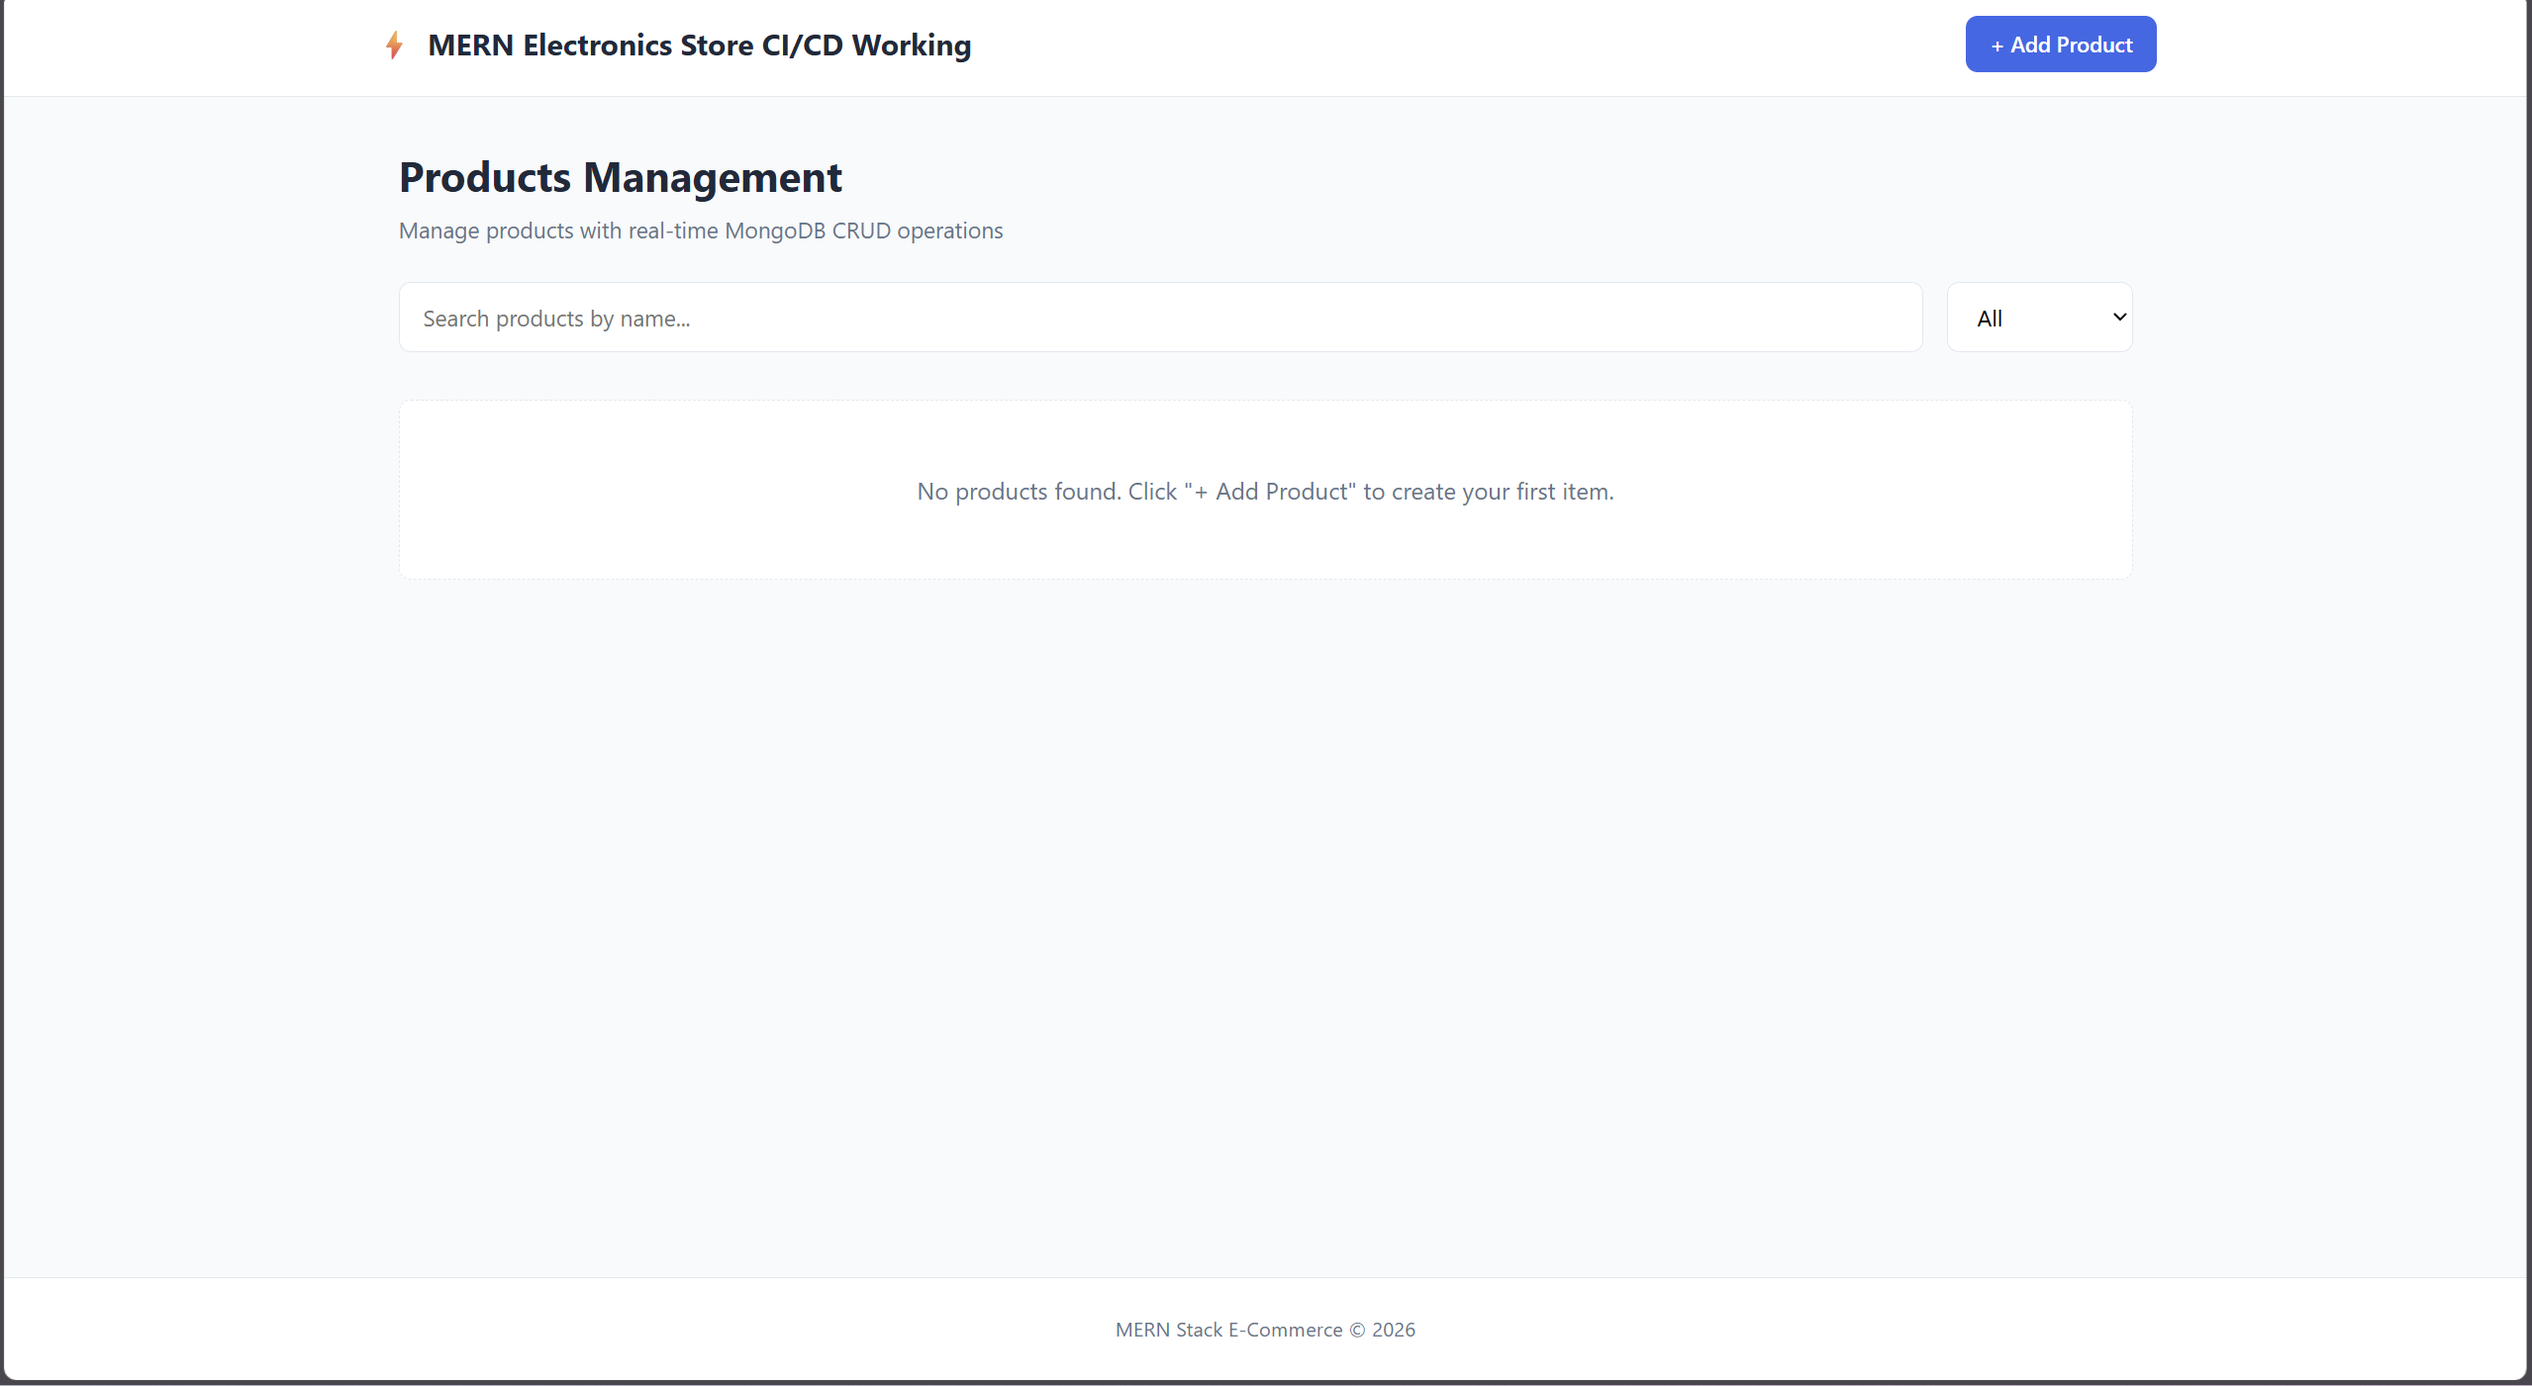
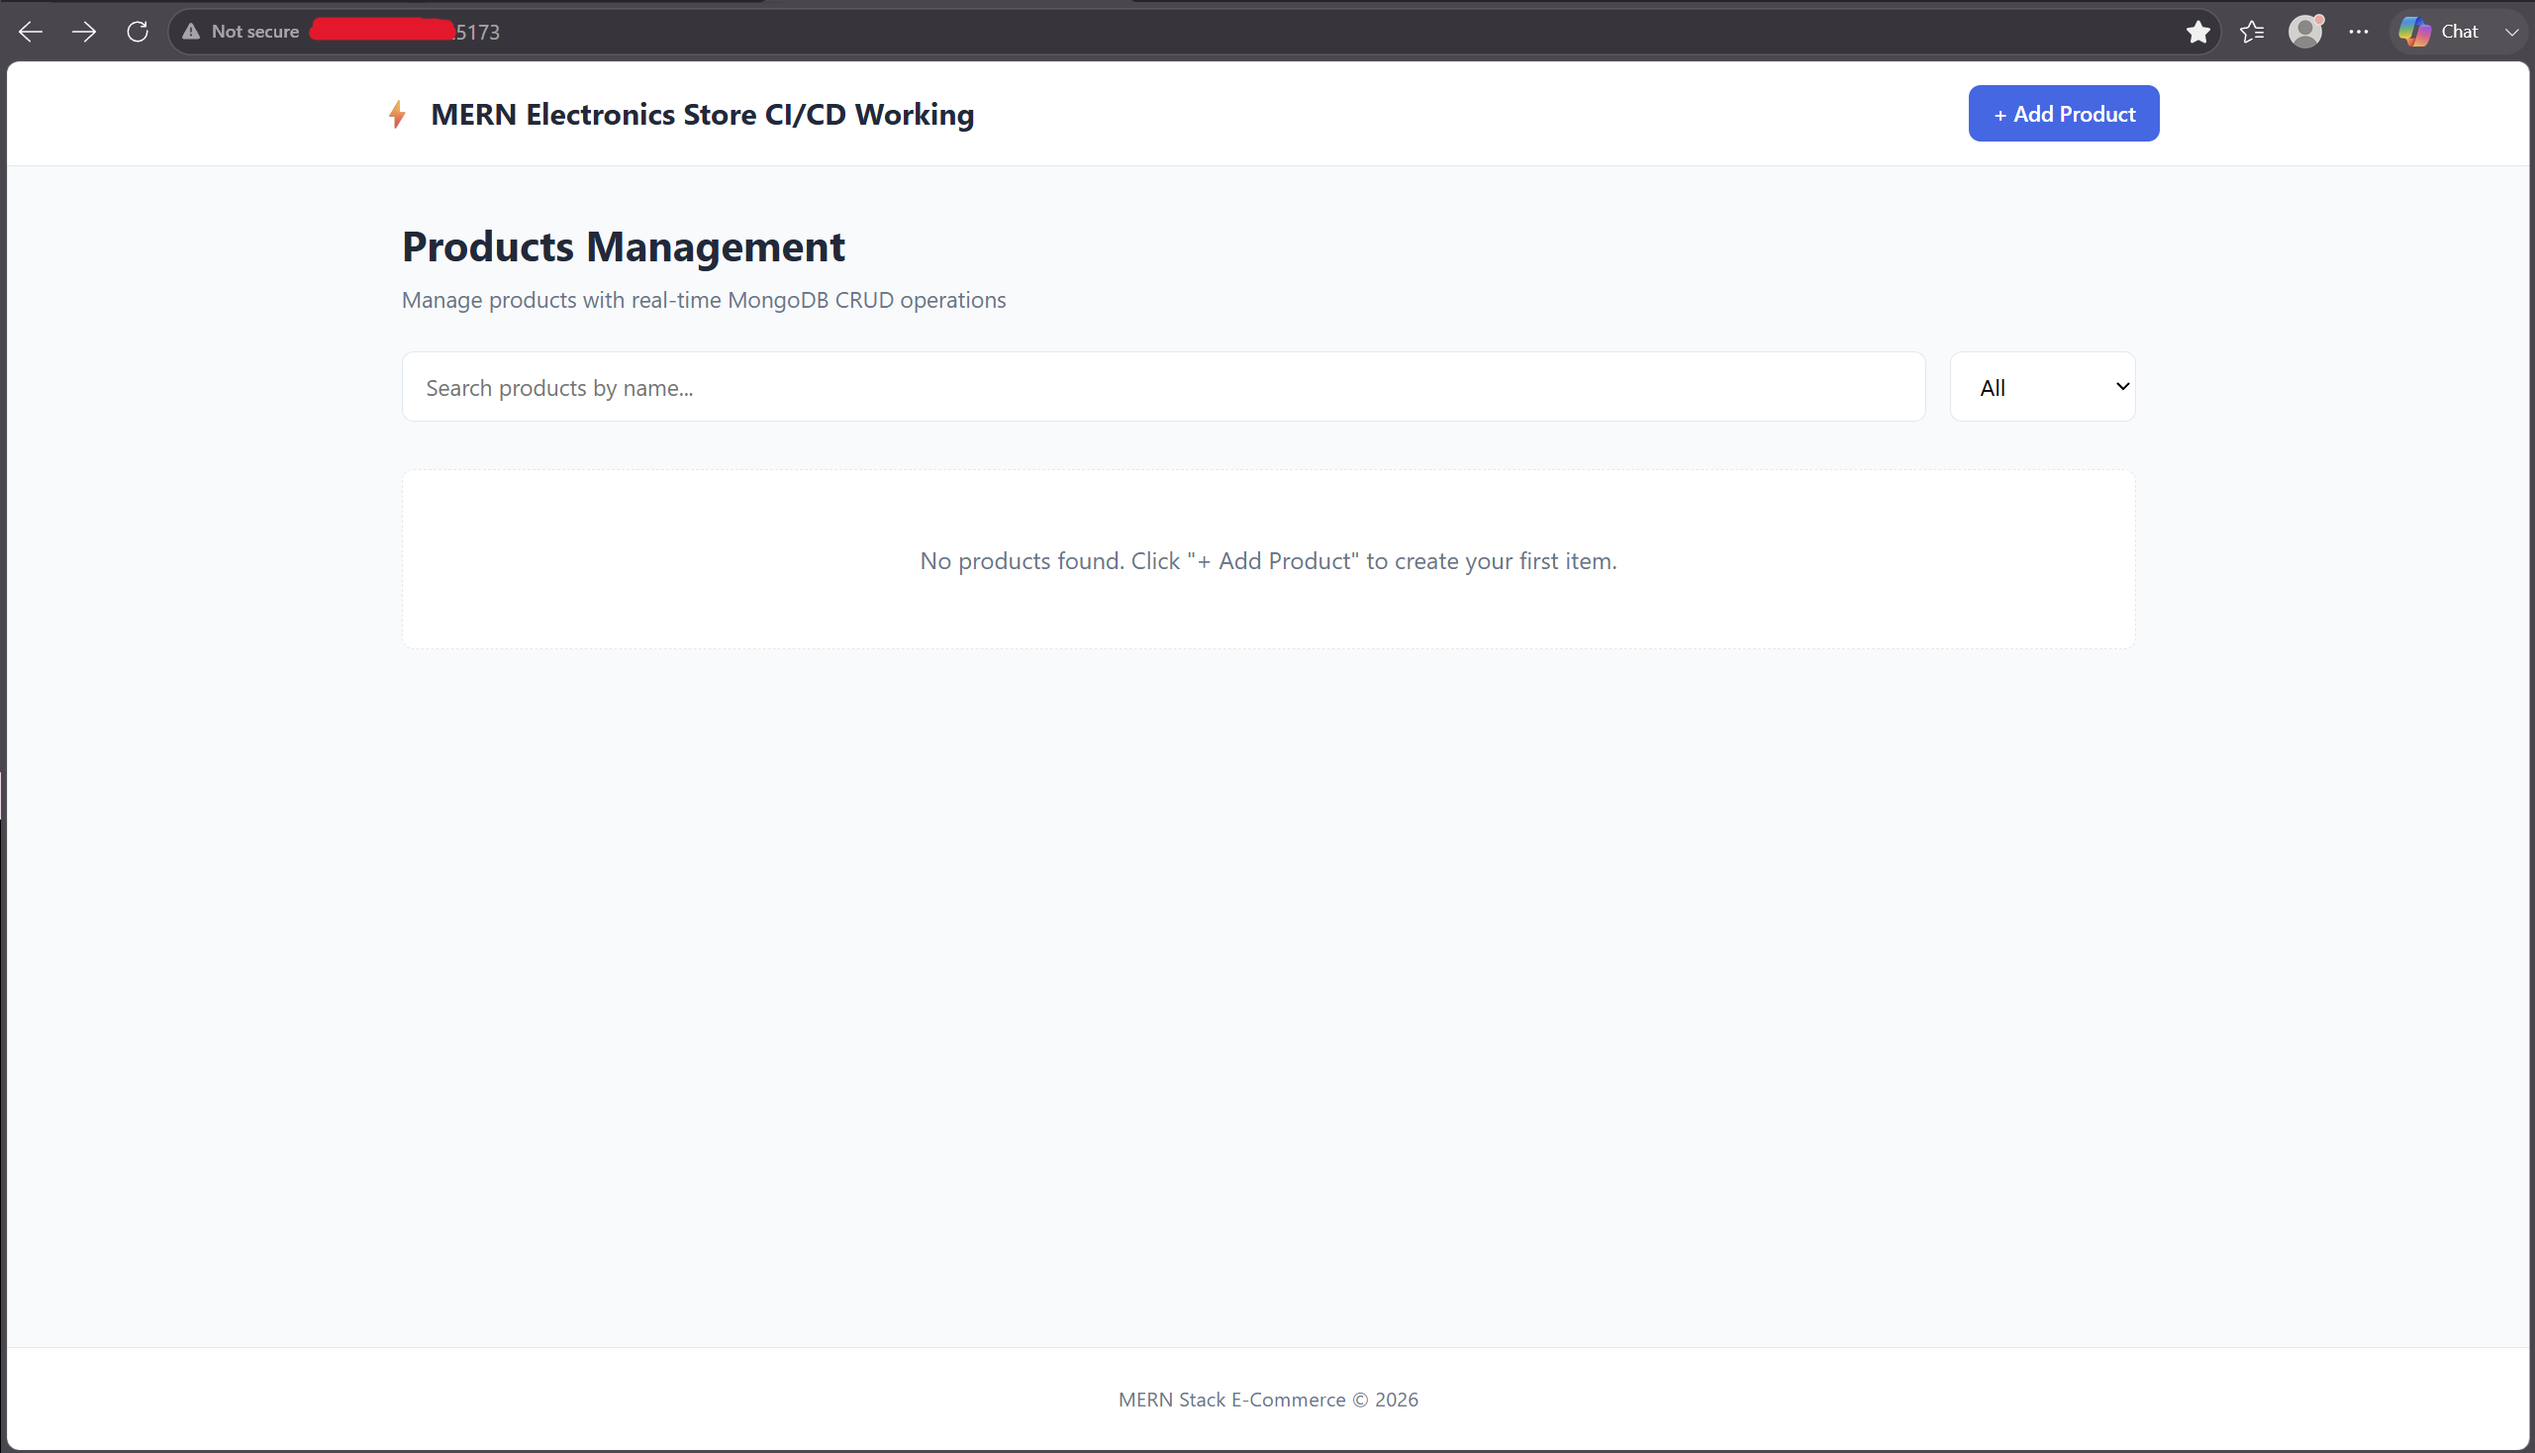
Update README.md

diff --git a/README.md b/README.md
@@ -1,58 +1,117 @@
-# MERN E-Commerce Platform
+# CI/CD Pipeline Practice Project
 
-A full-stack e-commerce application and DevOps portfolio project. It pairs a React and Vite storefront with an Express and MongoDB API, and demonstrates containerized delivery through GitHub Actions, Docker, and GitHub Container Registry (GHCR).
+A hands-on project built to learn and demonstrate an end-to-end CI/CD workflow from an Associate DevOps Engineer perspective. A small React and Express product-management application provides the workload; the main focus is automating validation, container builds, image publishing, and deployment across QA, staging, and main environments.
 
-> **Project focus:** Associate DevOps Engineer — CI/CD automation, container builds, environment-aware image publishing, and deployment workflow design.
+The `main` deployment shown below completed successfully, and the application was opened from the deployed server.
 
-## Application Preview
+## Deployment Evidence
 
-| Product catalog | Product management |
-|:---:|:---:|
-| ![E-commerce application screenshot 1](Screenshot%20(2).png) | ![E-commerce application screenshot 2](Screenshot%20(3).png) |
+### Successful GitHub Actions deployment to `main`
 
-## What’s Implemented
+The workflow completed its environment selection, container image build and publish, and deployment job successfully. The run summary records the commit and the backend and frontend image tags published to GHCR.
 
-### Application
-- React 18 and Vite frontend with product catalog, search, category filtering, and product details.
-- Express API backed by MongoDB and Mongoose, with product create, read, update, and delete endpoints.
-- Health endpoint at `GET /api/health`.
-- Modular backend organization using routes, controllers, services, and models.
+![Successful GitHub Actions CD workflow run for main](Screenshot%20(2).png)
 
-### DevOps and delivery
-- Separate Docker images for the frontend and backend, built from Node.js 20 Alpine base images.
-- Docker Compose setup for running the app and MongoDB locally.
-- GitHub Actions CI on pull requests to `qa`, `staging`, and `main`, and pushes to `feature/**`, `fix/**`, and `hotfix/**` branches.
-- CI installs locked dependencies, checks backend JavaScript syntax, builds the frontend, and verifies both Docker images build.
-- GitHub Actions CD on pushes to `qa`, `staging`, or `main`, with an option to start a workflow manually.
-- Environment-tagged frontend and backend images published to GHCR, using both commit-specific and `*-latest` tags.
-- Optional remote deployment over SSH when the deployment secrets are configured.
+### Application running on the deployed host
 
-## Architecture
+The product-management application was opened using the server address after deployment.
+
+![Product management application running on the deployed host](Screenshot%20(3).png)
+
+## What This Project Demonstrates
+
+- **Continuous integration:** GitHub Actions runs on pull requests targeting `qa`, `staging`, and `main`, and on pushes to `feature/**`, `fix/**`, and `hotfix/**` branches.
+- **Application checks:** CI installs dependencies with `npm ci`, runs the backend's current syntax-check script, and creates a frontend production build.
+- **Container validation:** CI builds both Docker images without publishing them.
+- **Continuous delivery:** Pushes to `qa`, `staging`, and `main` start the CD workflow; manual runs can select an environment.
+- **Image publishing:** The workflow authenticates to GHCR with `GITHUB_TOKEN` and publishes backend and frontend images with environment and commit-specific tags, plus environment `latest` tags.
+- **Deployment workflow:** The deployment job targets the matching GitHub Environment. When SSH deployment secrets are configured, it connects to the host, pulls the images, and runs Docker Compose. The successful run captured above reached a successful deployment job, and the application screenshot shows the app running on the host.
+- **Operational hygiene:** Workflow concurrency is configured, registry permissions are scoped to package publishing, and example environment files are provided without real credentials.
+
+## Delivery Flow
 
 ```text
-React + Vite frontend  ──HTTP──>  Express API  ──>  MongoDB
-         │                            │
-  Docker image                  Docker image
-         └────────── GitHub Actions ──┘
-                CI → build/publish to GHCR → optional SSH deploy
+Pull request / feature branch
+             │
+             ▼
+  Backend syntax check + frontend build
+             │
+             ▼
+  Build backend and frontend images
+             │
+             ▼
+Push to qa / staging / main (or manual run)
+             │
+             ▼
+  Build and publish environment-tagged images to GHCR
+             │
+             ▼
+  Deploy with Docker Compose over SSH
+             │
+             ▼
+  Application available on the deployment host
 ```
 
-The repository includes additional auth, cart, and order module files. The current Express app mounts the product API, and the current frontend router renders the product page; the modules not yet wired into those routes are not presented here as completed user-facing flows.
+## Application Workload
+
+The application is a small product-management interface used to exercise the delivery pipeline:
+
+- React 18 and Vite frontend with product listing, name search, category filtering, and add, edit, and delete actions.
+- Node.js 20 and Express API with product CRUD endpoints and a health endpoint at `GET /api/health`.
+- MongoDB persistence through Mongoose.
+- Separate backend and frontend Dockerfiles, plus Compose files for local development and deployment.
+
+The repository contains additional authentication, cart, and order modules, but those modules are not mounted in the current Express app or frontend router. The current running application flow is product management.
+
+## Technology Used
+
+| Area | Tools |
+|:--|:--|
+| CI/CD | GitHub Actions |
+| Containers | Docker, Docker Compose |
+| Container registry | GitHub Container Registry (GHCR) |
+| Frontend | React 18, Vite |
+| API | Node.js 20, Express 4 |
+| Database | MongoDB, Mongoose |
+| Environments | QA, staging, main |
+
+## CI and CD Configuration
+
+### Continuous integration
+
+Defined in [`.github/workflows/ci.yml`](.github/workflows/ci.yml):
+
+1. Backend job uses Node.js 20, installs locked dependencies, and runs `npm test` (currently `node --check src/server.js`).
+2. Frontend job installs locked dependencies and runs `npm run build`.
+3. Docker job builds backend and frontend images as validation; it does not push them.
+
+### Continuous delivery
+
+Defined in [`.github/workflows/cd.yml`](.github/workflows/cd.yml):
+
+- Pushes to `qa`, `staging`, and `main` select the corresponding environment. A manual workflow run also allows choosing one.
+- Images are published using tags such as `<environment>-<short-sha>` and `<environment>-latest`.
+- Image names follow `ghcr.io/<owner>/<repository>/backend` and `ghcr.io/<owner>/<repository>/frontend`.
+- SSH deployment uses `SSH_HOST`, `SSH_USER`, `SSH_KEY`, and optionally `SSH_PORT` and `DEPLOY_PATH`. Configure them as repository or environment secrets to deploy to a remote host.
+- Without `SSH_HOST`, the workflow publishes images but skips remote deployment. GitHub Environment approval rules and branch restrictions must be configured in repository settings if desired.
+
+For the full setup and deployment configuration, see the [CI/CD guide](docs/CI_CD_GUIDE.md). The `.env.qa.example`, `.env.staging.example`, and `.env.main.example` files are configuration examples; use real environment-specific values outside source control.
 
 ## Run Locally
 
-### Prerequisites
-- Node.js 20 or later and npm
-- MongoDB, running locally or available through a connection string
+### Requirements
 
-### Start the backend
+- Node.js 20 or later and npm
+- MongoDB locally or a MongoDB connection string
+
+### Start the API
 
 ```bash
 cd backend
 npm ci
 ```
 
-Set the backend environment variables in `backend/.env`:
+Create `backend/.env` with local values:
 
 ```env
 PORT=5000
@@ -60,13 +119,13 @@ MONGO_URI=mongodb://localhost:27017/ecommerce
 CLIENT_URL=http://localhost:5173
 ```
 
-Then run:
+Then start the API:
 
 ```bash
 npm run dev
 ```
 
-The API starts at `http://localhost:5000`. Check it at `http://localhost:5000/api/health`.
+The API is available at `http://localhost:5000`; check `http://localhost:5000/api/health` for its health response.
 
 ### Start the frontend
 
@@ -78,56 +137,35 @@ npm ci
 npm run dev
 ```
 
-Open `http://localhost:5173`. The Vite development server uses `http://localhost:5000/api` as its default API base URL; set `VITE_API_BASE_URL` if your API is hosted elsewhere.
+Open `http://localhost:5173`. Vite proxies `/api` requests to the local backend.
 
-## Run with Docker Compose
+### Start the full local stack with Docker Compose
 
-From the repository root, build and start MongoDB, the API, and the frontend:
+From the repository root:
 
 ```bash
 docker compose up --build
 ```
 
-The Compose configuration exposes the frontend at `http://localhost:5173` and the API at `http://localhost:5000`. Stop the services with `Ctrl+C`, or run `docker compose down`. MongoDB data is stored in the `mongo-data` named volume.
+The frontend is available at `http://localhost:5173`, and the API at `http://localhost:5000`. MongoDB data is stored in the `mongo-data` volume.
 
-## CI/CD Environments
-
-| Environment | Branch / trigger | Image tags |
-|:--|:--|:--|
-| QA | Push to `qa`, or manual workflow selection | `qa-<short-sha>`, `qa-latest` |
-| Staging | Push to `staging`, or manual workflow selection | `staging-<short-sha>`, `staging-latest` |
-| Main | Push to `main`, or manual workflow selection | `main-<short-sha>`, `main-latest` |
-
-The CD workflow builds and pushes images to `ghcr.io/<owner>/<repository>/backend` and `ghcr.io/<owner>/<repository>/frontend`. Configure GitHub Environments and add the required deployment secrets to enable SSH deployment. Without SSH configuration, the workflow publishes the images and reports that remote deployment was skipped. Configure required reviewers and branch restrictions in GitHub Environment settings if approval gates are needed; these are repository settings rather than automatic guarantees of the workflow file.
-
-See [the CI/CD guide](docs/CI_CD_GUIDE.md) for workflow details, environment configuration, GHCR image use, and deployment setup. The `.env.qa.example`, `.env.staging.example`, and `.env.main.example` files show the expected application configuration keys; replace example values with environment-specific values and keep real secrets out of Git.
-
-## Repository Layout
+## Repository Structure
 
 ```text
-.github/workflows/    GitHub Actions CI and CD workflows
-docs/                 CI/CD setup and deployment guide
-backend/              Express API, MongoDB models, and Dockerfile
-frontend/             React/Vite app and Dockerfile
-docker-compose.yml    Local development stack
+.github/workflows/     CI and CD workflow definitions
+backend/               Express API and backend Dockerfile
+frontend/              React/Vite application and frontend Dockerfile
+docs/                  CI/CD and deployment guide
+docker-compose.yml     Local development stack
 docker-compose.deploy.yml
-                      Compose configuration for published images
+                       Deployment stack using published images
+.env.*.example         QA, staging, and main configuration examples
 ```
 
-## Technology Stack
+## Learning Outcomes
 
-- **Frontend:** React 18, Vite
-- **Backend:** Node.js 20, Express 4
-- **Database:** MongoDB, Mongoose
-- **Containers:** Docker, Docker Compose
-- **CI/CD and registry:** GitHub Actions, GitHub Container Registry
-
-## Notes
-
-- The backend `npm test` script currently performs a Node.js syntax check; it is not a comprehensive automated test suite.
-- The CI workflow validates Docker builds but does not run container integration tests.
-- Configure `CLIENT_URL`, `VITE_API_BASE_URL`, MongoDB connection strings, and deployment secrets for each target environment before deploying.
+This project gave me practical experience with CI/CD workflow design, GitHub Actions, Docker image builds, GHCR publishing, environment-specific tags, deployment secrets, and running a Compose-based application on a remote host. It also highlighted the distinction between a successful image publishing job and a completed remote deployment, and the value of confirming deployment with the running application.
 
 ---
 
-**Author:** Associate DevOps Engineer portfolio project
+**Role focus:** Associate DevOps Engineer | CI/CD, Docker, GitHub Actions, GHCR
